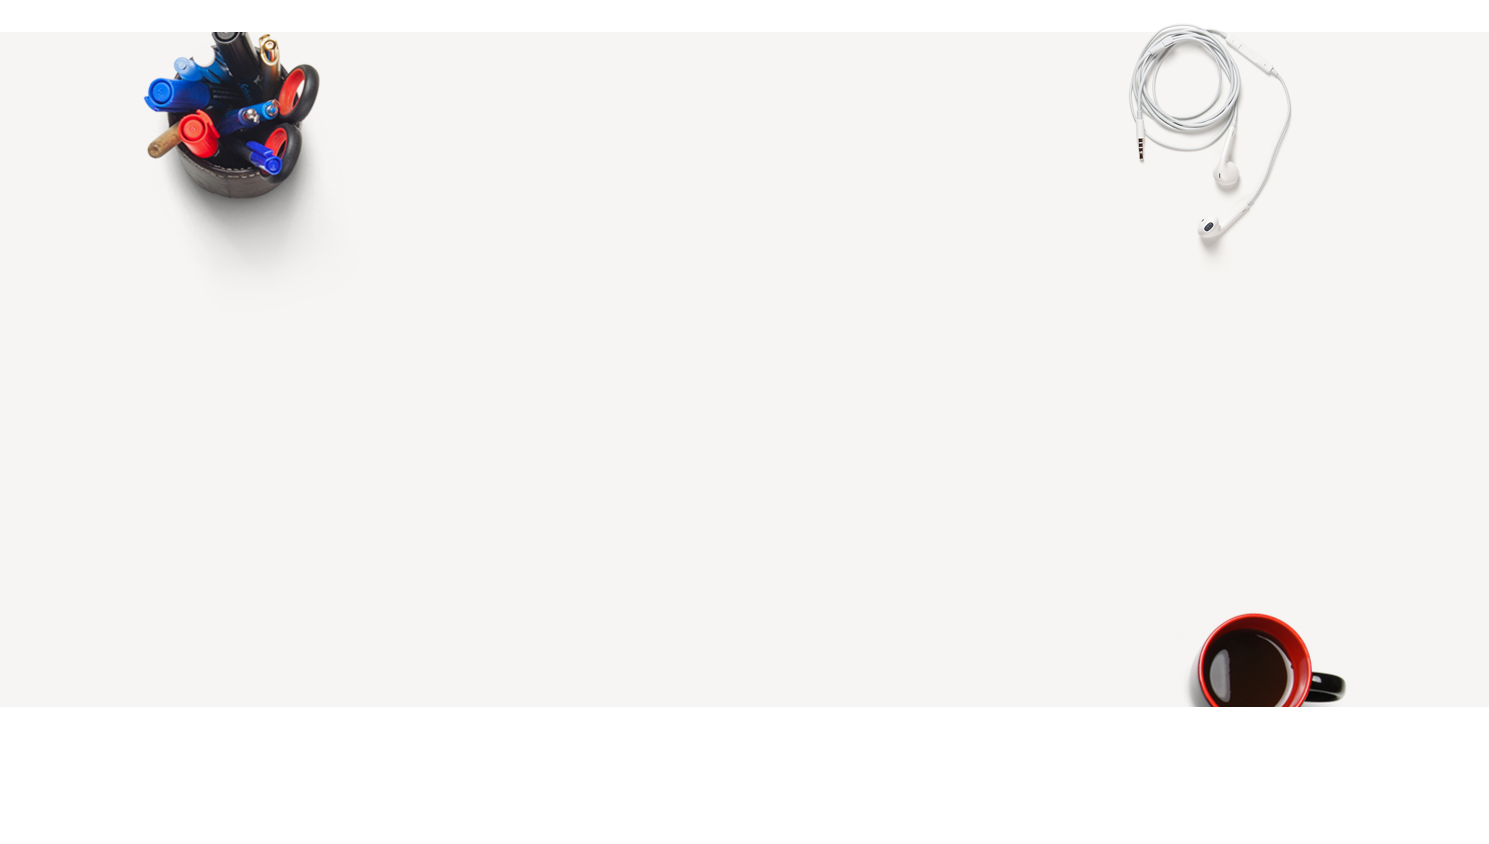
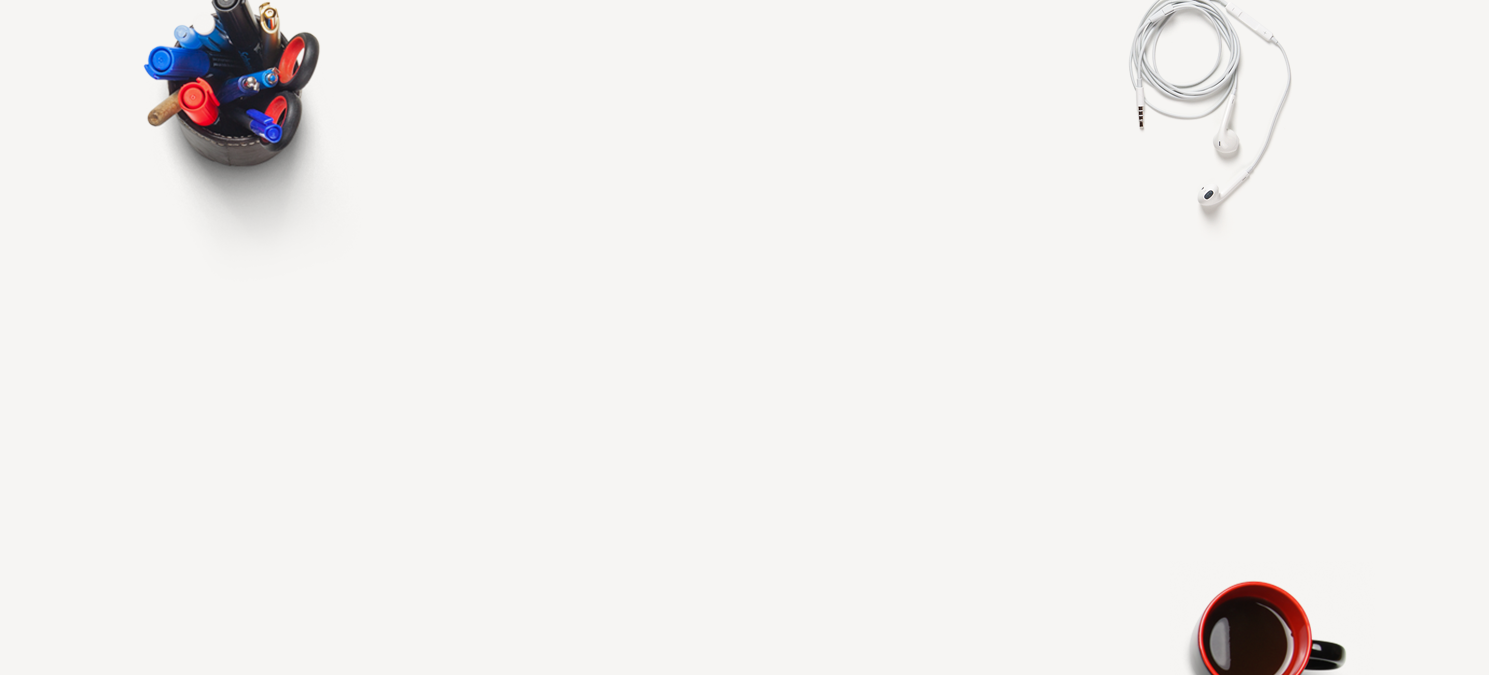
допилил фон секции 2

diff --git a/css/style.css b/css/style.css
@@ -1,8 +1,3 @@
-@font-face {
-    font-family: Exo-Thin;
-    src: url('../fonts/exo-thin.ttf');
-}
-
 * {
     margin: 0;
     padding: 0;
@@ -40,19 +35,22 @@ ul li {
 
 header {
     width: 100%;
-    background: url("../img/header_bgd.jpg") no-repeat top;
-    background-size: 100%;
+    background: url("../img/header_bgd.jpg");
+    background-size: cover;
+    background-position: top center;
+    background-repeat: no-repeat;
+    height: 815px;
     text-align: center;
     box-sizing: border-box;
     padding-top: 225px;
-    padding-bottom: 222px;
+
 }
 
 header h2 {
-    font-family: Exo-Thin;
+    font-family: Exo, sans-serif;
     font-size: 47px;
     color: #282828;
-    font-weight: normal;
+    font-weight: 100;
 }
 
 header img {
@@ -63,7 +61,7 @@ header img {
 header div a {
     text-transform: uppercase;
     color: #ffffff;
-    font-family: Exo-Thin;
+    font-family: Exo, sans-serif;
     font-size: 12px;
     line-height: 50px;
     padding: 19px 50px;
@@ -80,7 +78,7 @@ header div a:hover {
 }
 
 header p {
-    font-family: Exo-Thin;
+    font-family: Exo, sans-serif;
     font-size: 11px;
     color: #8c8c8f;
     margin-top: 20px;
@@ -88,8 +86,7 @@ header p {
 
 .sec1 {
     width: 100%;
-    font-family: Exo-Thin;
-    height: 725px;
+    font-family: Exo, sans-serif;
 }
 
 .left_side {
@@ -100,34 +97,37 @@ header p {
     padding-top: 190px;
     padding-left: 150px;
     padding-right: 150px;
-
 }
 
 .sec1 h3 {
-    font-size: 23px;
+    font-size: 16px;
     color: #ff9c9c;
     text-transform: uppercase;
-    margin-bottom: 17px;
+    margin-bottom: 3px;
+    font-weight: 500;
+    letter-spacing: 3px;
 }
 
 .sec1 h2 {
-    font-size: 47px;
-    font-weight: bold;
+    font-size: 41px;
     color: #282828;
-    margin-bottom: 12px;
+    margin-bottom: 34px;
+    font-weight: 500;
+    letter-spacing: 1px;
 }
 
 .sec1 h2 span {
     color: #ff6d6d;
-    font-size: 57px;
+    font-size: 41px;
 }
 
 .sec1 p {
     font-size: 16px;
     line-height: 26px;
     color: #8a8a8a;
-    margin-top: 38px;
-    font-family: Times New Roman;
+    margin-bottom: 26px;
+    font-weight: 500;
+    letter-spacing: 1px;
 }
 
 .right_side {
@@ -154,8 +154,9 @@ header p {
     width: 100%;
     height: 844px;
     background-image: url("../img/sec2_bg.png");
-    background-size: 100%;
+    background-size: contain;
     background-repeat: no-repeat;
-   background-position: 0% 0%;
+    background-position: top center;
+
 }
 

diff --git a/index.html b/index.html
@@ -5,6 +5,7 @@
     <title>HomeWork</title>
     <link rel="stylesheet" href="css/style.css" type="text/css">
     <meta name="viewport" content="width=device-width, initial-scale=1.0">
+    <link href="https://fonts.googleapis.com/css?family=Exo:100,400,500" rel="stylesheet">
 </head>
 <body>
     <div class="wrapper">
@@ -18,7 +19,7 @@
             <section class="sec1 clearfix">
                 <div class="left_side">
                     <h3>new design</h3>
-                    <h2>There is no other platforms<br> for you as like<span>    ....</span></h2>
+                    <h2>There is no other platforms<br>for you as like<span>    ....</span></h2>
                     <p>Aenean eu leo quam. Pellentesque ornare sem lacinia quam venenatis vestibulum.
                         Donec id elit non mi porta gravida at eget metus. Curabitur blandit tempus porttitor.
                         Etiam porta sem malesuada magna mollis euismod.
